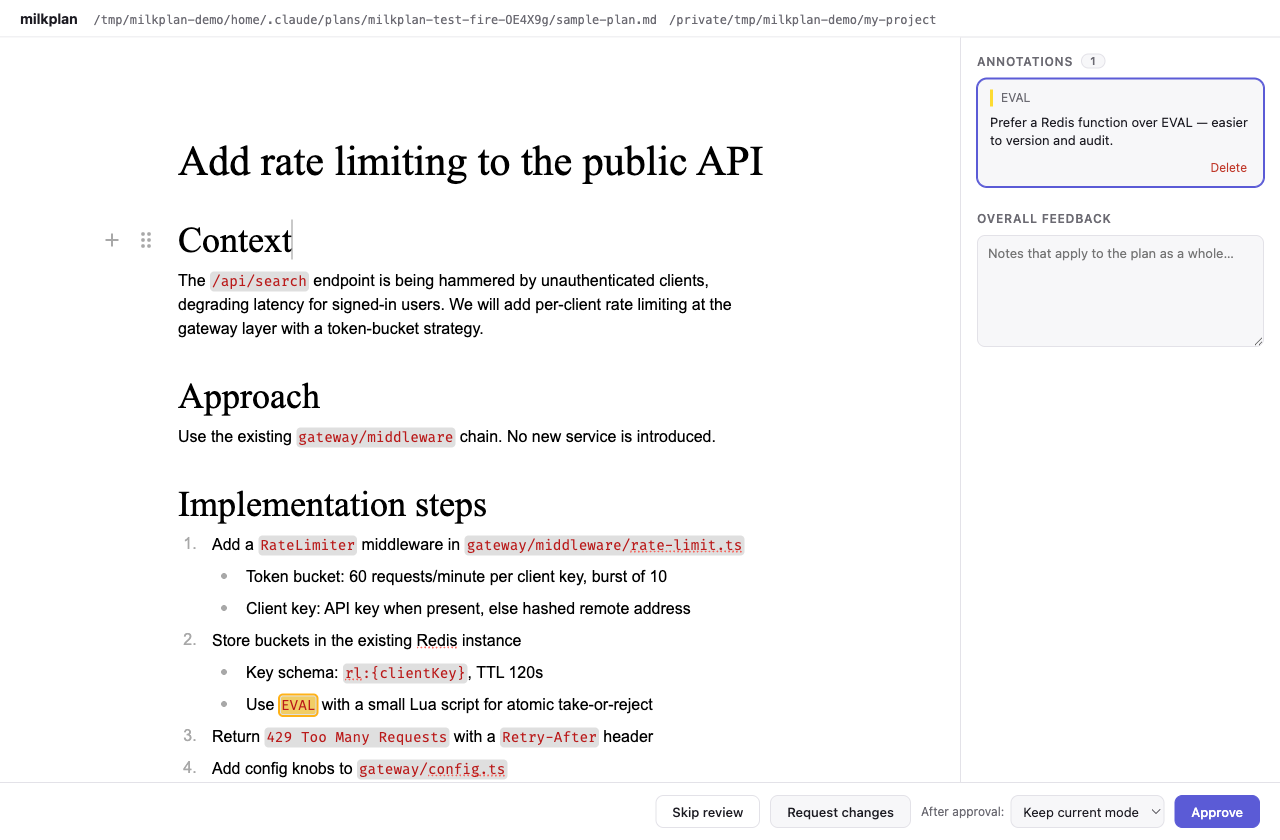
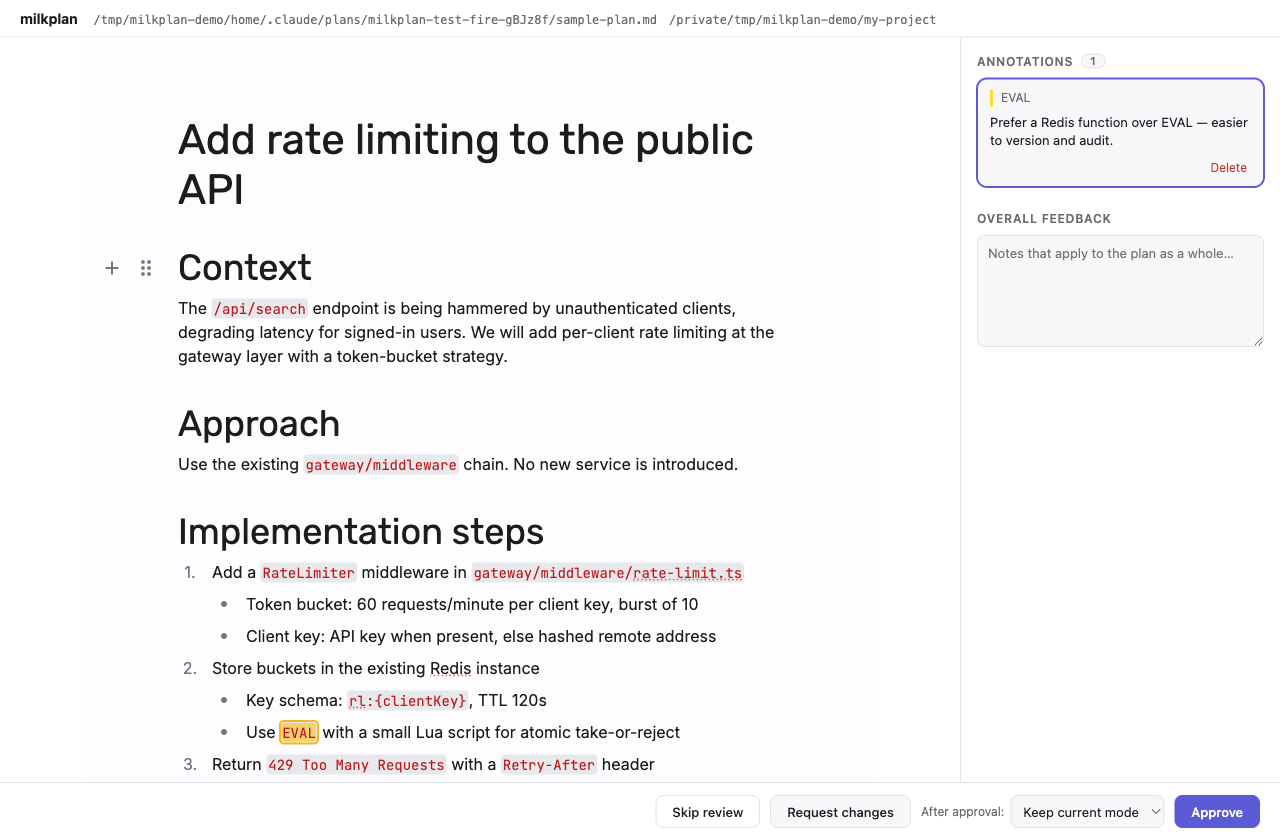
docs: update readme

diff --git a/README.md b/README.md
@@ -24,11 +24,18 @@ opens the plan in your browser instead of the terminal prompt:
 
 ![The milkplan review UI: the plan in a WYSIWYG editor with an annotation anchored to selected text](https://raw.githubusercontent.com/Saul-Mirone/milkplan/HEAD/docs/assets/review-ui.png)
 
+The same review with "View changes" open — removals struck through, additions
+highlighted, inline rather than side-by-side:
+
+![The View changes overlay: the current plan diffed against round 1, showing a renamed heading and two replaced bullets](https://raw.githubusercontent.com/Saul-Mirone/milkplan/HEAD/docs/assets/diff-overlay.png)
+
 Everything runs locally: an ephemeral HTTP server on `127.0.0.1` with a
 per-review token, one process per review, no daemon. The review itself makes no
-network calls. As a plugin it is downloaded once and every review after that
-runs a local `node`; only the legacy `npx -y @enorim/milkplan` hook command can
-reach the npm registry, and only on a cold cache.
+network calls — the editor's fonts are bundled into the build rather than
+fetched from a CDN, so the UI renders the same offline. As a plugin it is
+downloaded once and every review after that runs a local `node`; only the legacy
+`npx -y @enorim/milkplan` hook command can reach the npm registry, and only on a
+cold cache.
 
 ## Requirements
 
